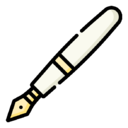
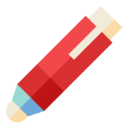
“更新橡皮差图标和代码优化”

Changed region(s): [[0.0312, 0.0312, 0.9688, 0.9688]]

diff --git a/AiTool/aiwidget.cpp b/AiTool/aiwidget.cpp
@@ -362,16 +362,17 @@ void AiWidget::iniIcon()
 
     QStringList list;
     list << "open" << "save" << "saveOne"
-         << "pen" << "polygon" << "delete";
+         << "pen" << "polygon" << "delete" << "eraser";
 
     QList<QPushButton *> btnList;
     btnList << ui->btn_open << ui->btn_save << ui->btn_saveOne
-            << ui->btn_pen << ui->btn_polygon << ui->btn_delete;
+            << ui->btn_pen << ui->btn_polygon << ui->btn_delete << ui->btn_eraser;
 
     for (int i = 0 ; i < list.size() ; i ++) {
         str = QString(":/aiImageIcon/aiImgIcon/%1.png").arg(list[i]);
         btnList[i]->setIcon(QIcon(QPixmap(str)));
         btnList[i]->setIconSize(QSize(ICONSIZE, ICONSIZE));
+        btnList[i]->setFixedSize(QSize(ICONSIZE + 4, ICONSIZE + 4));
     }
 
     SETICONBTN(ui->btn_open, u8"打开文件夹(f)", readImageTool, "f");
@@ -379,7 +380,7 @@ void AiWidget::iniIcon()
     SETICONBTN(ui->btn_saveOne,  u8"全部保存(ctrl+shift+s)", saveTool, "ctrl+shift+s");
     SETICONBTN(ui->btn_pen,  u8"画笔工具(b)", usePenTool, "b");
     SETICONBTN(ui->btn_polygon,  u8"多边形工具(n)", usePolyTool, "n");
-    //SETICONBTN(,  u8"橡皮擦(e)", useEraserTool, "e");
+    SETICONBTN(ui->btn_eraser,  u8"橡皮擦(e)", useEraserTool, "e");
     //SETICONBTN(biggerPen,  u8"增加画笔宽度(a)", useBiggerPenTool, "a");
     //SETICONBTN(smallerPen,  u8"减小画笔宽度(s)", useSmallerPenTool, "s");
     SETICONBTN(ui->btn_delete, u8"删除(d)", deletePenTool, "d");

diff --git a/AiTool/aiwidget.h b/AiTool/aiwidget.h
@@ -90,12 +90,12 @@ private:
      */
     void iniLayout();
 
-private slots:
     /**
      * @brief 私有类数据和标注界面的初始化
      */
     void initialData();
 
+private slots:
     /**
      * @brief 初始化进度栏对话框
      */
